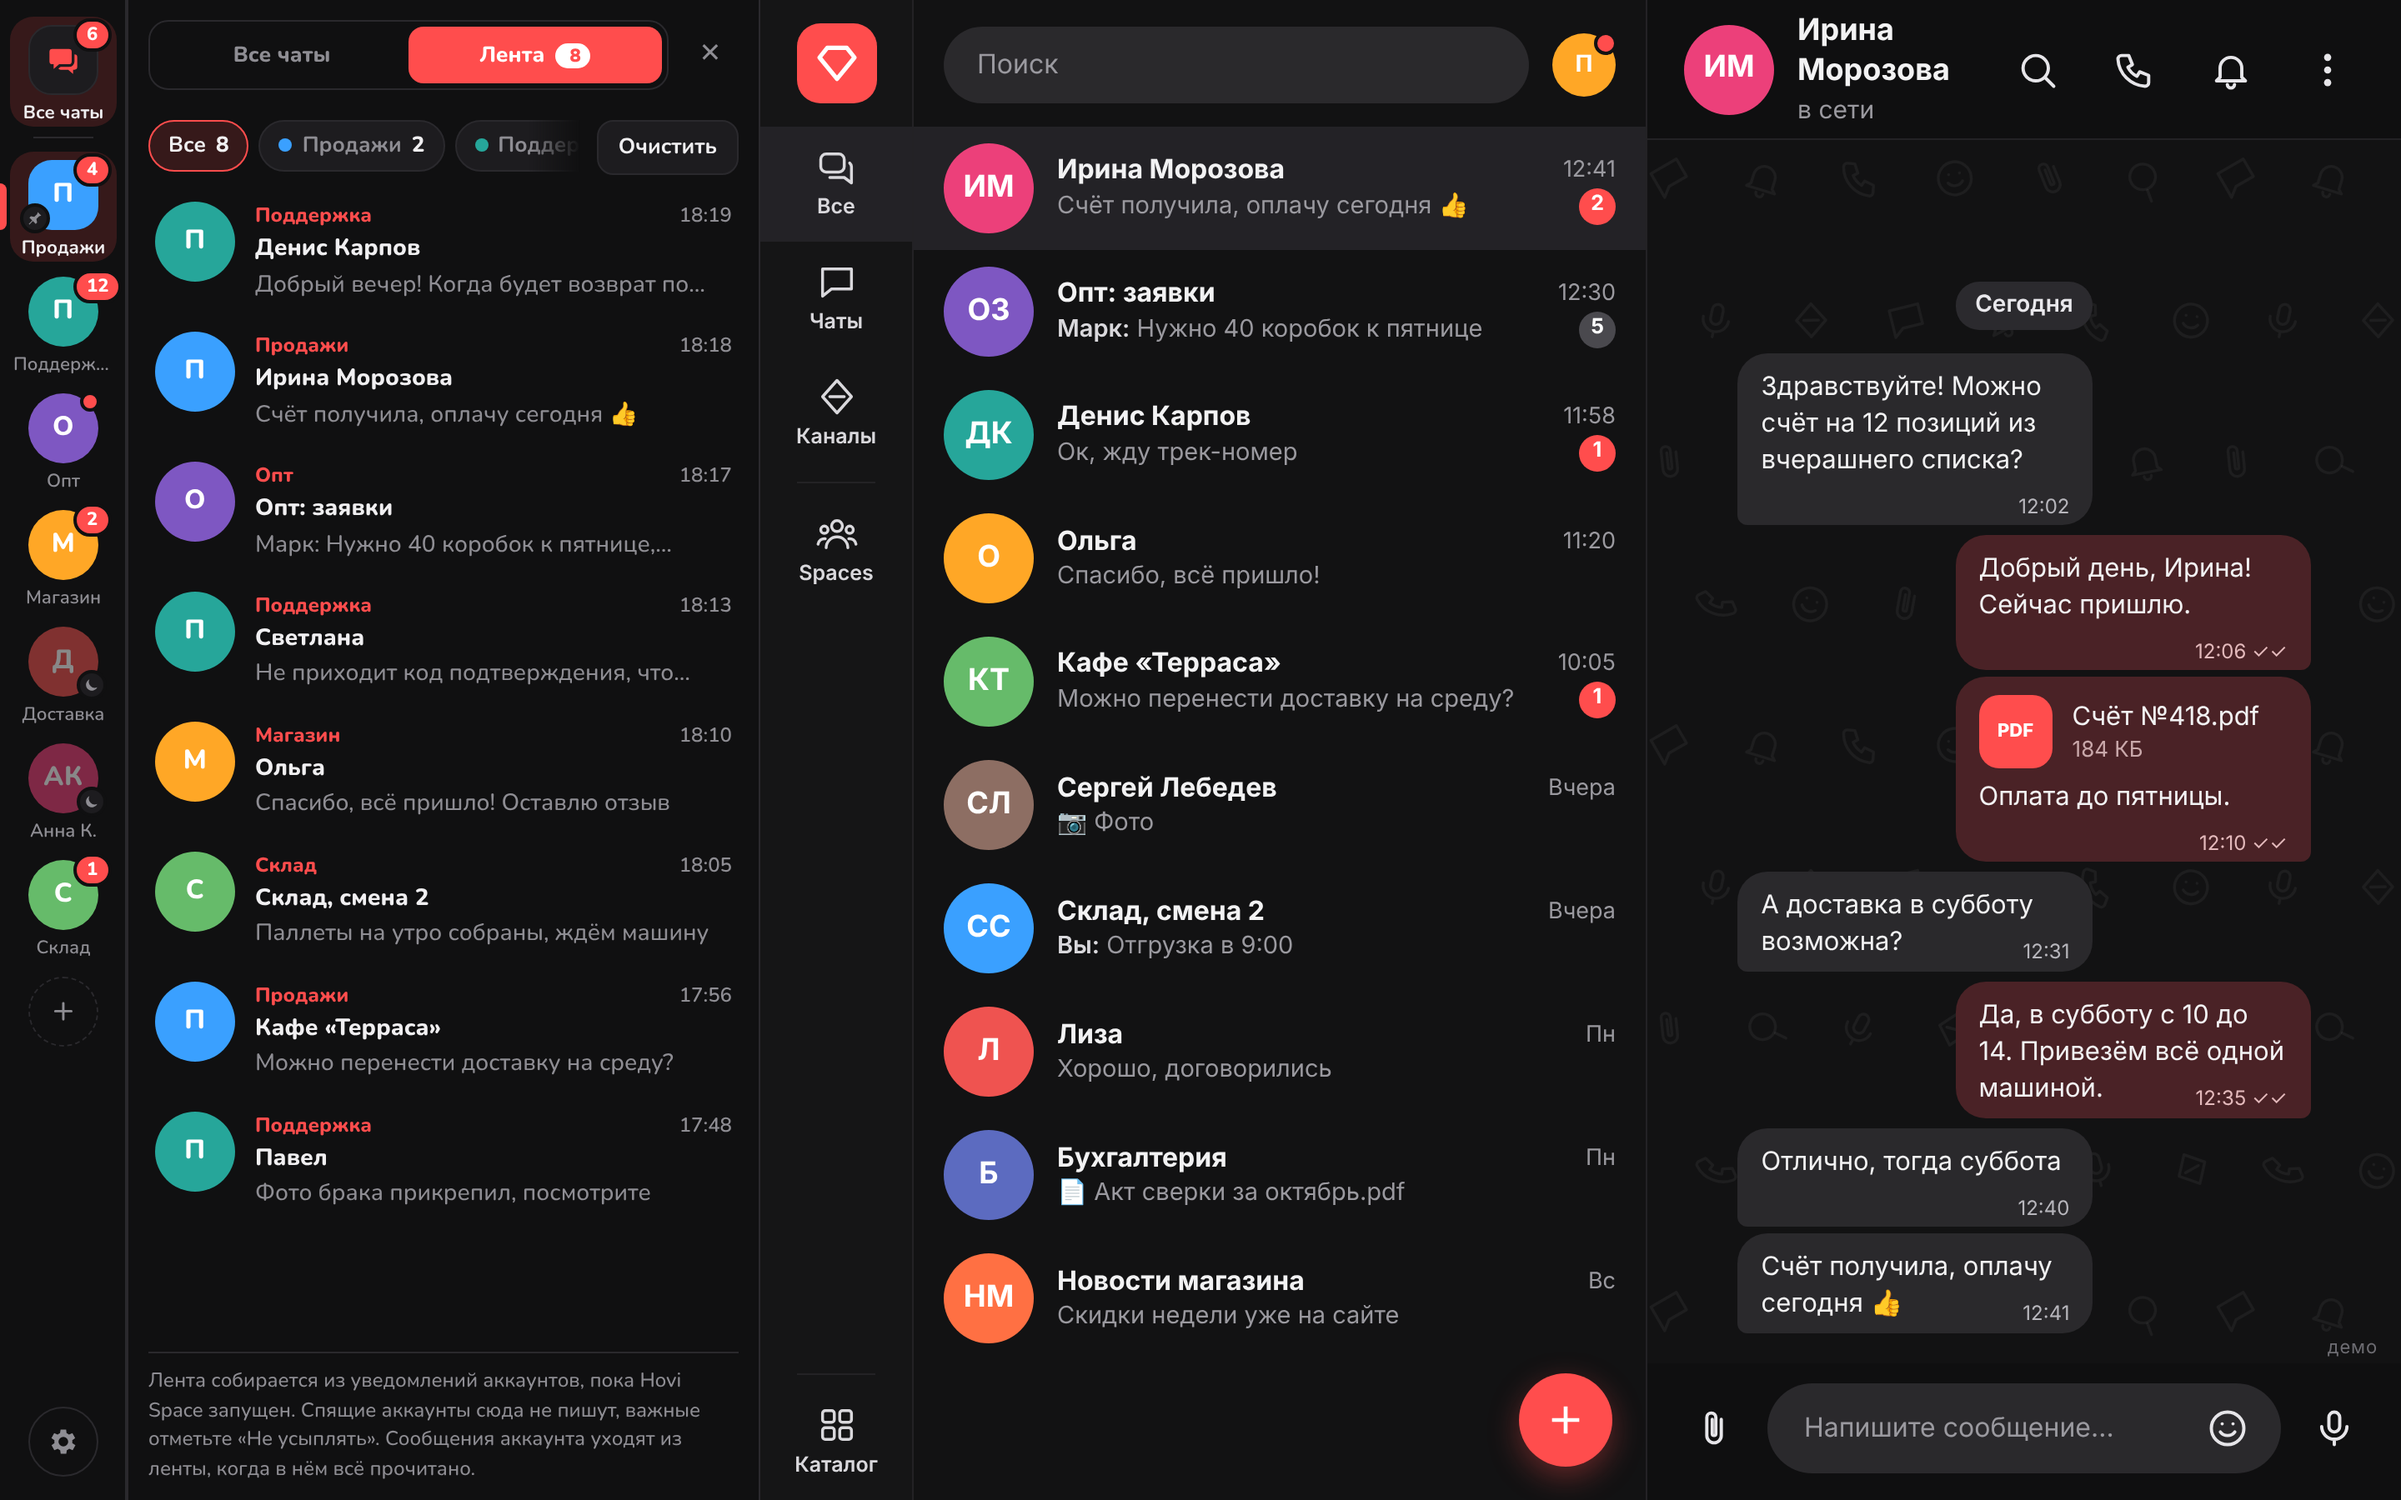
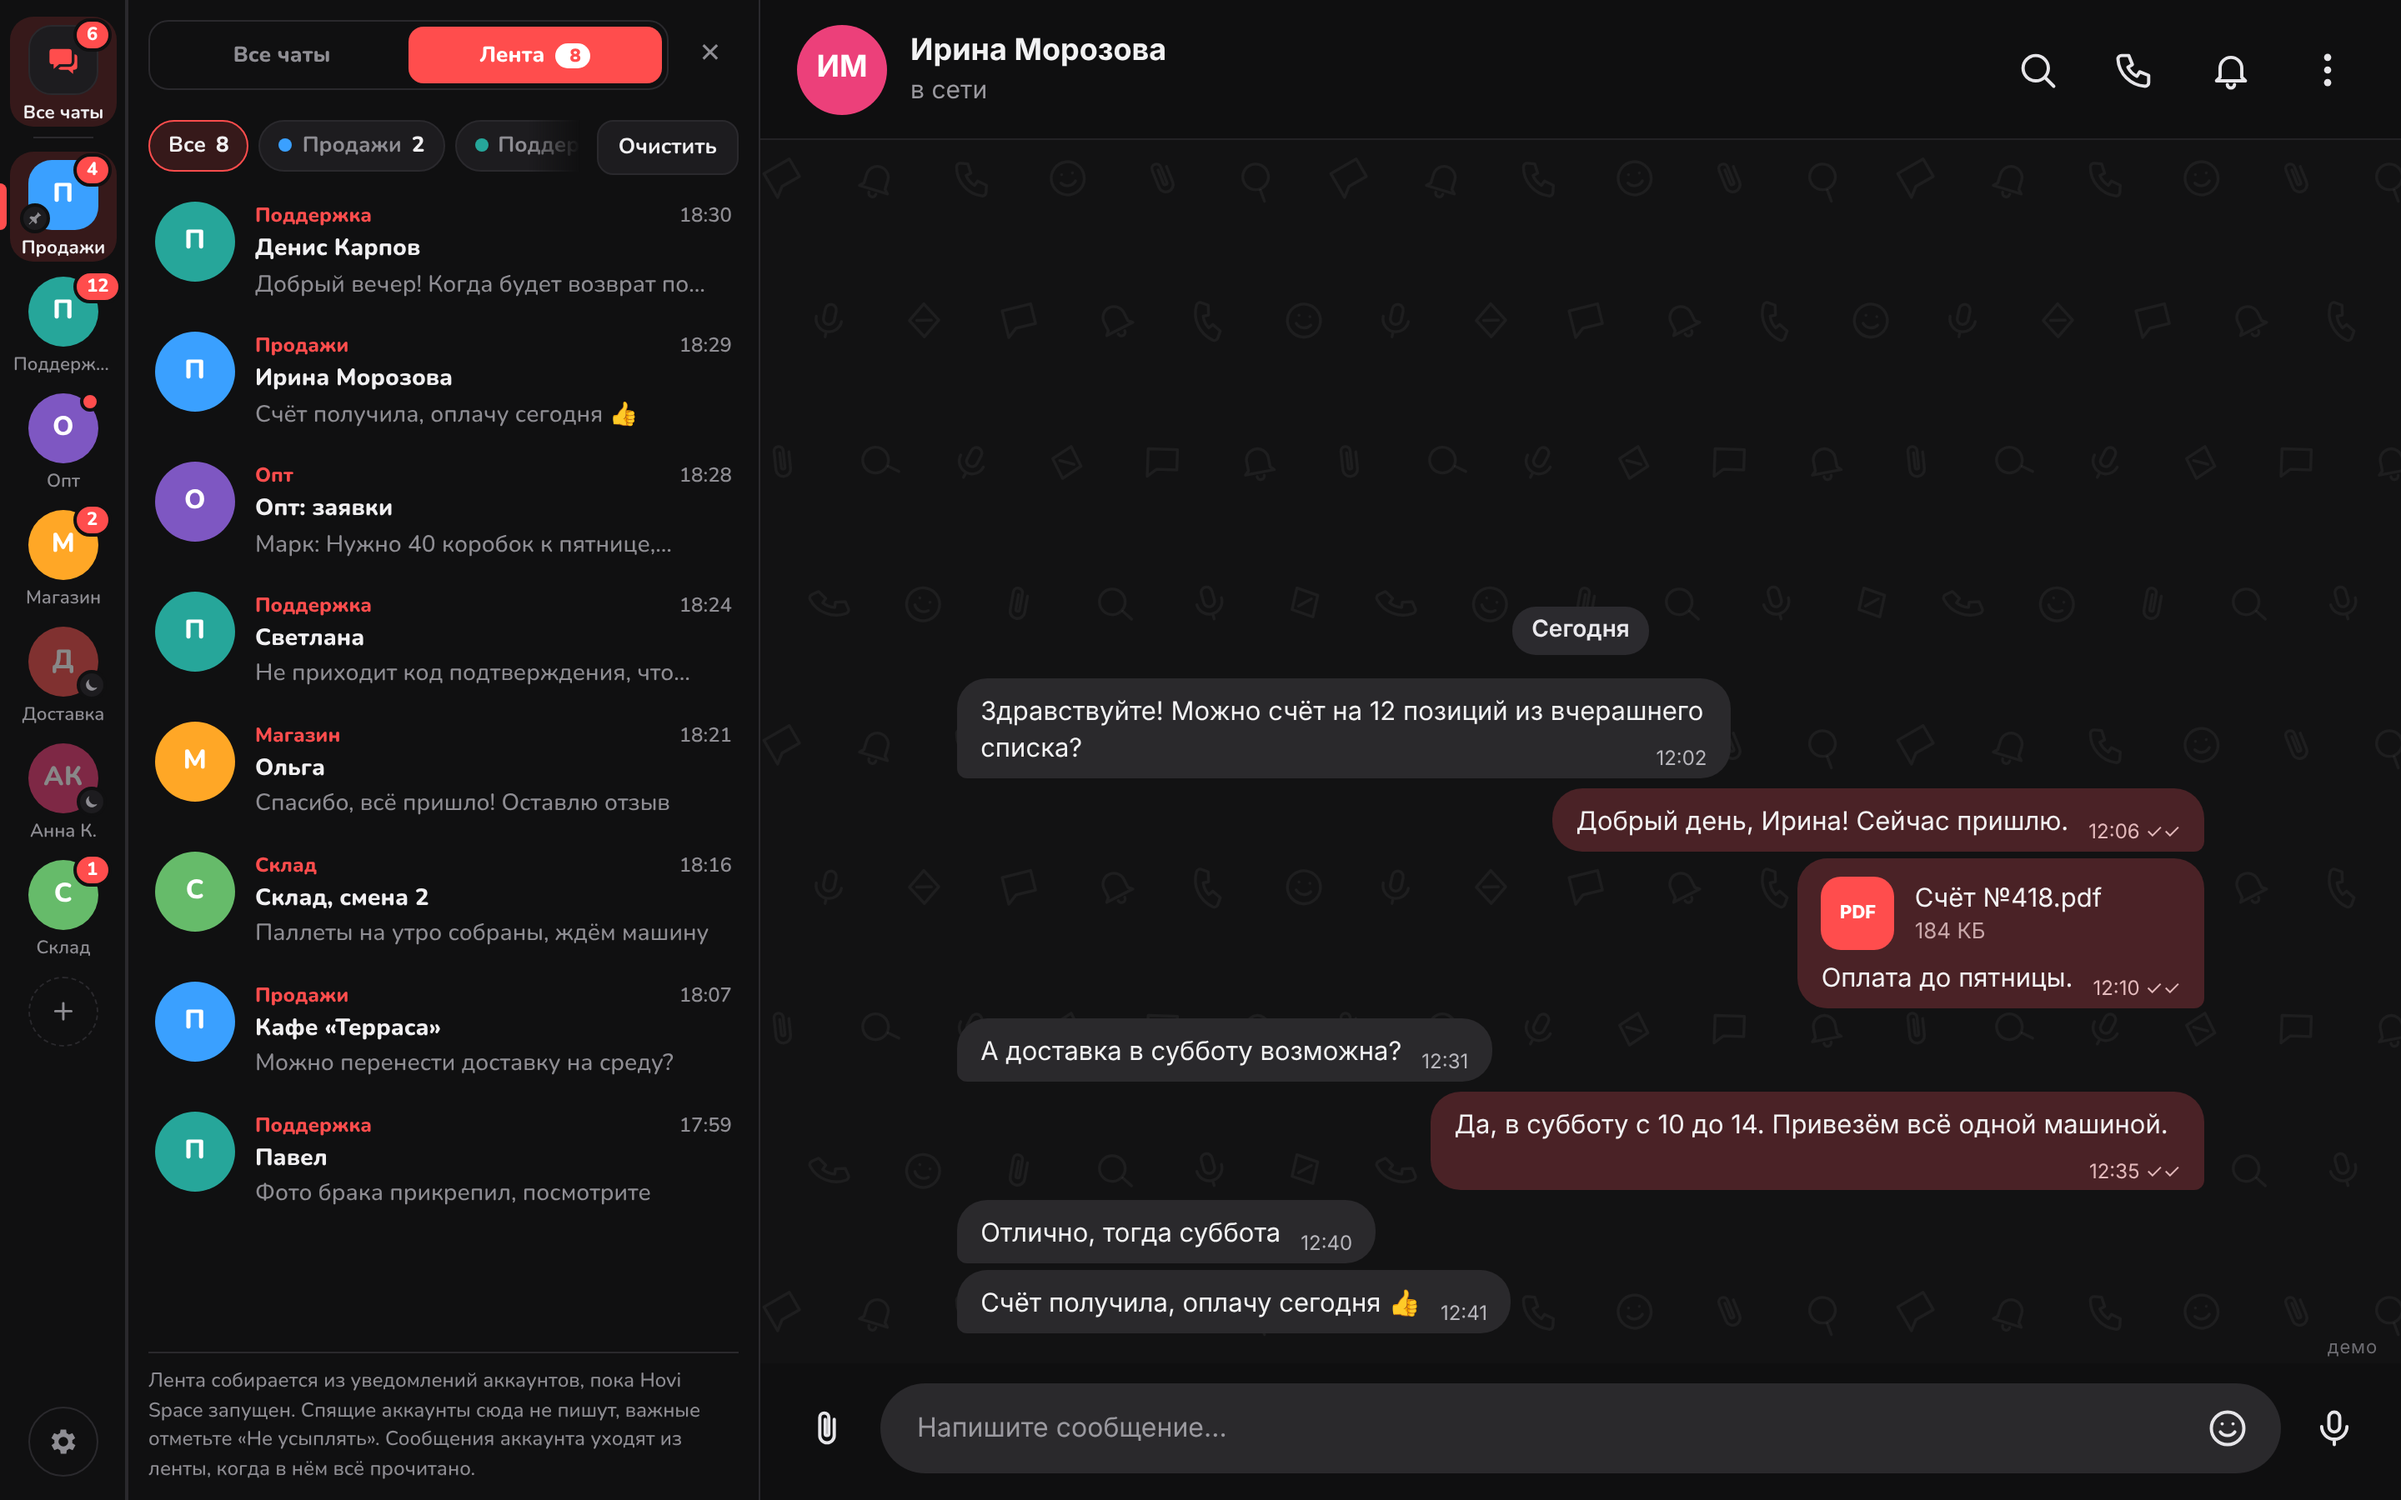
All chats: the page shows only the open chat while the list is open
Claude-Session: https://claude.ai/code/session_01CRM8nFGG7VZVC9La9kUpL5

diff --git a/shared/chats.js b/shared/chats.js
@@ -84,6 +84,20 @@
   if (document.body) start();
   else document.addEventListener('DOMContentLoaded', start);
 
+  // "Все чаты" is open next to the page: the page's own left part (its navigation and chat list) is hidden in
+  // this window only, so the open chat takes the whole width, as in Hivogram. Nothing changes in Gem Space itself.
+  // Only when that part has a sibling, so a layout where the chat sits inside it is never hidden.
+  window.__gemspaceFocus = function (on) {
+    var root = document.documentElement;
+    if (!document.getElementById('hovi-focus')) {
+      var st = document.createElement('style');
+      st.id = 'hovi-focus';
+      st.textContent = 'html.hovi-focus #gem > * > *:has([data-test="groups-navigation"]):not(:only-child) { display: none !important; }';
+      (document.head || root).appendChild(st);
+    }
+    root.classList.toggle('hovi-focus', !!on);
+  };
+
   // Opens a chat by name: clicks its row, the same as the user would. If the row is scrolled out of
   // the virtualized list, scrolls the list to the top first, where recent chats are.
   window.__gemspaceOpenChat = function (name) {

diff --git a/desktop/ui/app.js b/desktop/ui/app.js
@@ -182,7 +182,7 @@ function renderChats() {
   });
   $('#feed-clear').hidden = true;
   const missing = state.accounts.filter((a) => !(lists[a.id] || []).length).map((a) => a.name);
-  $('#feed-note').textContent = (missing.length ? `Пока без списка: ${missing.join(', ')}. Чаты аккаунта появятся, когда он загрузится. ` : '')
+  $('#feed-note').textContent = (missing.length ? `Пока без списка: ${missing.join(', ').replace(/\.$/, '')}. Чаты аккаунта появятся, когда он загрузится. ` : '')
     + 'Hovi Space только читает список, который показывает страница Gem Space, и никуда его не отправляет.';
   const q = chatQuery.trim().toLowerCase();
   rows = rows.filter((r) => (!feedFilter || r.account === feedFilter) && (!chatUnreadOnly || r.unread) && (!q || r.name.toLowerCase().includes(q)));

diff --git a/docs/make-screens.js b/docs/make-screens.js
@@ -47,7 +47,10 @@ async function shot(browser, key, file, opts, page, before) {
   await shot(b, 'd5', 'desktop-settings', D, rail, (p) => p.click('#gear'));
   await shot(b, 'd9', 'desktop-settings-sleep', D, rail, async (p) => { await p.click('#gear'); await p.waitForTimeout(300); await p.click('.nav-row[data-p="sleep"]'); });
   await shot(b, 'd6', 'desktop-feed', D, 'docs/demo/desktop.html?feed');
-  await shot(b, 'd8', 'desktop-chats', D, 'docs/demo/desktop.html?chats');
+  await shot(b, 'd8', 'desktop-chats', D, 'docs/demo/desktop.html?chats', async (p) => {
+    await p.waitForTimeout(500);
+    await p.frameLocator('#rail').locator('.gs-row[data-n="Ирина Морозова"]').click(); // the chat open on the right
+  });
   await shot(b, 'd7', 'desktop-welcome', D, rail + '?empty');
   await shot(b, 'a1', 'android-main', P, 'docs/demo/phone.html');
   await shot(b, 'a2', 'android-add', P, 'docs/demo/phone.html?dialog');

diff --git a/docs/demo/chat.html b/docs/demo/chat.html
@@ -62,6 +62,8 @@ const doodle = (() => {
 document.documentElement.style.setProperty('--doodle', doodle);
 const phone = location.search.includes('phone');
 if (phone) document.body.classList.add('phone');
+// ?focus: «Все чаты» is open next to the page, the page shows only the open chat (shared/chats.js __gemspaceFocus)
+if (location.search.includes('focus')) document.body.classList.add('focus');
 const list = CHATS.map(([n, c, t, p, u, on, mute]) => `<div class="item${on ? ' on' : ''}"><div class="av" style="background:${c}">${ini(n)}</div>
   <div class="meta"><div class="row"><span class="name">${n}</span><span class="time">${t}</span></div>
   <div class="row"><span class="prev">${p}</span>${u ? `<span class="cnt${mute ? ' mute' : ''}">${u}</span>` : ''}</div></div></div>`).join('');

diff --git a/docs/demo/chat.css b/docs/demo/chat.css
@@ -56,6 +56,8 @@ svg { fill: currentColor; }
 .input { display:flex; align-items:center; gap:10px; padding:12px 18px 16px; background:var(--bg); flex:none; }
 .field { flex:1; height:54px; border-radius:27px; background:var(--pill); display:flex; align-items:center; padding:0 10px 0 22px; color:var(--muted); font-size:16px; }
 .demo { position:fixed; right:14px; bottom:84px; font-size:11px; color:#6d6c72; letter-spacing:.04em; }
+/* «Все чаты» open next to the page: the page's own navigation and list are hidden */
+.focus .nav, .focus .list { display:none; }
 /* phone: only the open chat, like the mobile web layout */
 .phone .nav, .phone .list { display:none; }
 .phone .head { height:64px; padding:0 8px; gap:8px; }

diff --git a/docs/demo/desktop.html b/docs/demo/desktop.html
@@ -24,6 +24,6 @@ html,body{margin:0;height:100%;overflow:hidden;background:#0e1621;font-family:"S
 <script>
 if (location.search.includes('menu')) document.getElementById('menu').style.display = 'block';
 const tab = /[?&](chats|feed)/.exec(location.search);
-if (tab) { const r = document.getElementById('rail'); r.style.width = '456px'; r.src = '../../desktop/ui/index.html?' + tab[1]; }
+if (tab) { const r = document.getElementById('rail'); r.style.width = '456px'; r.src = '../../desktop/ui/index.html?' + tab[1]; r.nextElementSibling.src = 'chat.html?focus'; }
 if (location.search.includes('toast')) document.getElementById('toast').style.display = 'block';
 </script></body></html>

diff --git a/desktop/src/lib.rs b/desktop/src/lib.rs
@@ -594,8 +594,9 @@ async fn feed_open(app: AppHandle, key: u64) -> Result<(), String> {
 #[tauri::command]
 async fn chat_open(app: AppHandle, account: String, name: String) -> Result<(), String> {
     switch_to(&app, &account)?;
+    let panel = app.state::<AppState>().live.lock().unwrap().panel;
     if let (Some(wv), Ok(js_name)) = (app.get_webview(&label_of(&account)), serde_json::to_string(&name)) {
-        let _ = wv.eval(format!("window.__gemspaceOpenChat && window.__gemspaceOpenChat({js_name})"));
+        let _ = wv.eval(format!("{}window.__gemspaceOpenChat && window.__gemspaceOpenChat({js_name})", focus_js(panel)));
     }
     Ok(())
 }
@@ -638,6 +639,18 @@ async fn set_overlay(app: AppHandle, open: bool) {
 async fn set_panel(app: AppHandle, open: bool) {
     app.state::<AppState>().live.lock().unwrap().panel = open;
     layout(&app);
+    if let Some(window) = main_window(&app) {
+        for wv in window.webviews() {
+            if id_of(wv.label()).is_some() {
+                let _ = wv.eval(focus_js(open));
+            }
+        }
+    }
+}
+
+/// While "Все чаты" is open, account pages show only the open chat (shared/chats.js, `__gemspaceFocus`).
+fn focus_js(on: bool) -> String {
+    format!("window.__gemspaceFocus && window.__gemspaceFocus({on});")
 }
 
 #[tauri::command]
@@ -730,6 +743,10 @@ async fn acc_chats(app: AppHandle, webview: Webview, chats: Vec<ChatRow>) {
         let mut live = st.live.lock().unwrap();
         known && live.chats.get(&id) != Some(&rows) && { live.chats.insert(id, rows); true }
     };
+    // a page that loaded while "Все чаты" was open gets the same view as the others
+    if app.state::<AppState>().live.lock().unwrap().panel {
+        let _ = webview.eval(focus_js(true));
+    }
     if changed {
         publish(&app);
     }
